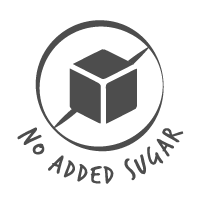
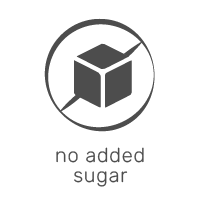
Nieuwe icoontjes en extra tabbladen

Changed region(s): [[0.1493, 0.09, 0.9254, 0.93], [0.0896, 0.63, 0.2388, 0.78]]

diff --git a/functions.php b/functions.php
@@ -457,6 +457,153 @@
 		return $args;
 	}
 
+	// Registreer een extra tabje op de productdetailpagina voor de voedingswaardes
+	add_filter( 'woocommerce_product_tabs', 'add_extra_product_tabs' );
+	
+	function add_extra_product_tabs( $tabs ) {
+		global $product;
+		// Schakel lange beschrijving uit (werd naar boven verplaatst)
+		unset($tabs['description']);
+
+		// Voeg tabje met voedingswaardes toe (indien niet leeg)
+		if ( get_tab_content('food') !== false ) {
+			$eh = $product->get_attribute( 'pa_eenheid' );
+			if ( $eh === 'L' ) {
+				$suffix = 'ml';
+			} elseif ( $eh === 'KG' ) {
+				$suffix = 'g';
+			}
+			$tabs['food_info'] = array(
+				'title' 	=> 'Voedingswaarde per 100 '.$suffix,
+				'priority' 	=> 14,
+				'callback' 	=> function() { output_tab_content('food'); },
+			);
+		}
+
+		// Voeg tabje met allergenen toe
+		$tabs['allergen_info'] = array(
+			'title' 	=> 'Allergenen',
+			'priority' 	=> 16,
+			'callback' 	=> function() { output_tab_content('allergen'); },
+		);
+
+		// Titel wijzigen van standaardtabs kan maar prioriteit niet! (description = 10, additional_information = 20)
+		$tabs['additional_information']['title'] = 'Technische fiche';
+		
+		return $tabs;
+	}
+
+	// Retourneer de gegevens voor een custom tab (antwoordt met FALSE indien geen gegevens beschikbaar)
+	function get_tab_content( $type ) {
+		global $product;
+		$has_row = false;
+		$alt = 1;
+		ob_start();
+		echo '<table class="shop_attributes">';
+
+		if ( $type === 'food' ) {
+			$product_metas = array(
+				'_fapucis' => 'Meervoudig onverzadigd',
+				'_famscis' => 'Enkelvoudig onverzadigd',
+				'_fasat' => 'Verzadigd',
+				'_polyl' => 'Polyolen',
+				'_starch' => 'Zetmeel',
+				'_sugar' => 'Suikers',
+			);
+			
+			foreach ( $product_metas as $meta_key => $meta_label ) {
+				?>
+				<tr class="<?php if ( ( $alt = $alt * -1 ) == 1 ) echo 'alt'; ?>">
+					<th><?php
+						$submetas = array( '_fapucis', '_famscis', '_fasat', '_polyl', '_starch', '_sugar' );
+						if ( in_array( $mete_key, $submetas ) ) {
+							echo '<i style="padding-left: 20px;">waarvan '.$meta_label.'</i>';
+						} else {
+							echo $meta_label;
+						}
+					?></th>
+					<td><?php
+						if ( in_array( $meta_key, $submetas ) ) {
+							echo '<i>'.$product->get_meta($meta_key).'</i>';
+						} else {
+							echo $product->get_meta($meta_key);
+						}
+					?></td>
+				</tr>
+				<?php
+			}
+
+		} elseif ( $type === 'allergen' ) {
+			// Allergenentab altijd tonen!
+			$has_row = true;
+			$allergens = get_the_terms( $product->get_id(), 'product_allergen' );
+			$contains = array();
+			$traces = array();
+
+			if ( $allergens !== false ) {
+				foreach ( $allergens as $allergen ) {
+					if ( get_term_by( 'id', $allergen->parent, 'product_allergen' )->slug === 'contains' ) {
+						$contains[] = $allergen;
+					} elseif ( get_term_by( 'id', $allergen->parent, 'product_allergen' )->slug === 'may-contain' ) {
+						$traces[] = $allergen;
+					}
+				}
+			}
+			?>
+			<tr class="<?php if ( ( $alt = $alt * -1 ) == 1 ) echo 'alt'; ?>">
+				<th><?php echo 'Dit product bevat'; ?></th>
+				<td>
+				<?php
+					$i = 0;
+					$str = '/';
+					if ( count( $contains ) > 0 ) {
+						foreach ( $contains as $substance ) {
+							$i++;
+							if ( $i === 1 ) {
+								$str = $substance->name;
+							} else {
+								$str .= ', '.$substance->name;
+							}
+						}
+					}
+					echo $str;
+				?>
+				</td>
+			</tr>
+
+			<tr class="<?php if ( ( $alt = $alt * -1 ) == 1 ) echo 'alt'; ?>">
+				<th><?php echo 'Kan sporen bevatten van'; ?></th>
+				<td>
+				<?php
+					$i = 0;
+					$str = '/';
+					if ( count( $traces ) > 0 ) {
+						foreach ( $traces as $substance ) {
+							$i++;
+							if ( $i === 1 ) {
+								$str = $substance->name;
+							} else {
+								$str .= ', '.$substance->name;
+							}
+						}
+					}
+					echo $str;
+				?>
+				</td>
+			</tr>
+			<?php
+		}
+		
+		echo '</table>';
+		
+		if ( $has_row ) {
+			return ob_get_clean();
+		} else {
+			ob_end_clean();
+			return false;
+		}
+	}
+
 	// Verhinder bepaalde selecties in de back-end AAN TE PASSEN NAAR DE NIEUWE ID'S
 	add_action( 'admin_footer', 'disable_custom_checkboxes' );
 
@@ -1574,6 +1721,8 @@
 	remove_action( 'woocommerce_archive_description', 'woocommerce_taxonomy_archive_description', 10 );
 	remove_action( 'woocommerce_before_shop_loop', 'woocommerce_result_count', 20 );
 	remove_action( 'woocommerce_before_shop_loop', 'woocommerce_catalog_ordering', 30 );
+	remove_action( 'woocommerce_single_product_summary', 'woocommerce_template_single_excerpt', 20 );
+	add_action( 'woocommerce_single_product_summary', 'woocommerce_template_single_content', 20 );
 	add_action( 'woocommerce_before_shop_loop', 'output_oft_partner_info', 10 );
 	
 	function output_oft_partner_info() {

diff --git a/woocommerce/content-single-product.php b/woocommerce/content-single-product.php
@@ -19,10 +19,9 @@ alone_title_bar();
 		<div class="row">
 			<div class="bt-content-area <?php alone_get_content_class( 'content', $alone_sidebar_position ); ?>">
 				<div class="bt-col-inner">
-          <!-- GEWIJZIGD: Breadcrumb weer tonen -->
+          <!-- GEWIJZIGD: Breadcrumb vervangen door standaard WooCommerce-versie -->
           <?php if( function_exists('woocommerce_breadcrumb') ) woocommerce_breadcrumb(); ?>
-					<?php if( function_exists('fw_ext_breadcrumbs') ) fw_ext_breadcrumbs(); ?>
-          <div itemscope itemtype="" id="product-<?php the_ID(); ?>" <?php post_class(); ?>>
+					<div itemscope itemtype="" id="product-<?php the_ID(); ?>" <?php post_class(); ?>>
             <?php
             	/**
             	 * woocommerce_before_single_product hook.
